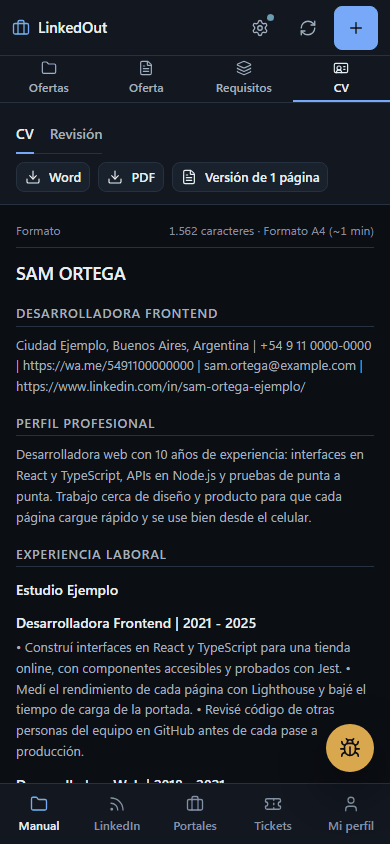
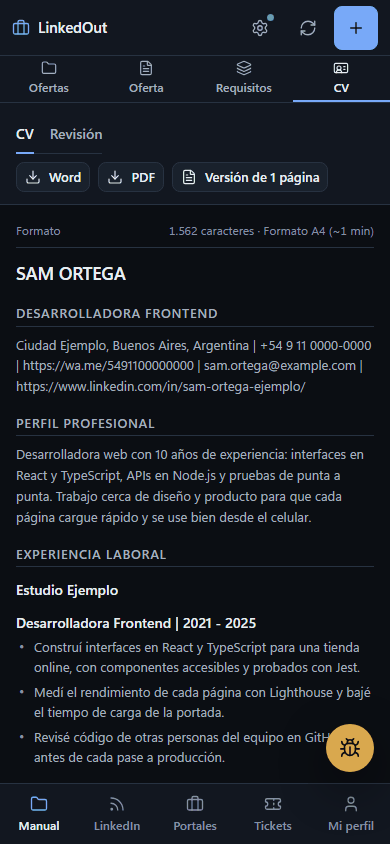
docs(readme): capturas regeneradas con los nombres de §8 y la vista previa del CV arreglada; uso.md al día
- Trae fix/vista-previa-vinetas (90033c8) y fix/nombres-linkedin (3fb5087).
- docs/capturas: las 14 regeneradas con tools/capturas.py (Búsquedas, Por analizar, Detenido, Aprobar listos · N,
  Mail de postulación, Escribir, Coincide/Falta…; el CV del editor con sus viñetas como lista). CV de ejemplo
  regenerado (mismo contenido).
- docs/uso.md: los nombres visibles de §8 (LinkedIn, Búsquedas, Por analizar, Listas, Mayor afinidad, Más
  recientes, Con mail, Procesos, Aprobar listos · N, Analizar ahora, Coincide/Transferible/Falta, Word).
- Controles: auditor --local/--ci en 0; test_enlaces_docs, test_capturas_herramienta y tests_rapidos en verde.

Changed region(s): [[0.0308, 0.7393, 0.9538, 0.9242]]

diff --git a/docs/uso.md b/docs/uso.md
@@ -4,7 +4,7 @@
 
 Sistema local de postulación asistida, análisis de ofertas laborales, adaptación personalizada de currículum vitae (formato Google XYZ) y redacción de mensajes de contacto para reclutadores, que usa el CLI de Antigravity (AGY) como motor de IA (sin claves comerciales externas ni servidores pesados).
 
-Cuenta con un panel web responsivo para escritorio y celular, motor único de procesamiento en segundo plano, exportación ejecutiva a DOCX y PDF, túnel seguro para operar desde el celular y auditoría de calidad con detección de patrones de redacción artificial.
+Cuenta con un panel web responsivo para escritorio y celular, motor único de procesamiento en segundo plano, exportación ejecutiva a Word y PDF, túnel seguro para operar desde el celular y auditoría de calidad con detección de patrones de redacción artificial.
 
 ---
 
@@ -17,9 +17,9 @@ El panel cuenta con un selector en la barra superior para alternar entre dos vis
    - Corre el mismo motor que el Radar (análisis → CV → mensaje → «Lista para enviar»).
    - En las ofertas manuales **siempre genera el CV** (sin umbral de afinidad).
    - Funciona incluso con el Radar detenido.
-   - **Historial anterior:** sección colapsable al pie de la lista de solo lectura con las postulaciones viejas, permitiendo consultar y descargar sus archivos DOCX y PDF.
+   - **Historial anterior:** sección colapsable al pie de la lista de solo lectura con las postulaciones viejas, permitiendo consultar y descargar sus archivos Word y PDF.
 
-2. **Radar LinkedIn**:
+2. **LinkedIn**:
    - Lee publicaciones de empleo desde tu feed de inicio y mediante búsquedas globales en LinkedIn en segundo plano, usando Microsoft Edge con tu perfil ya abierto.
    - Clasifica los avisos, descarta lo que no corresponda a búsquedas laborales o no aplique a Argentina y analiza requisitos y afinidad.
    - Genera el CV de forma automática cuando la afinidad supera el umbral configurado (o a demanda).
@@ -30,11 +30,11 @@ El Radar y las ofertas manuales por enlace conservan hasta cuatro imágenes de c
 
 La lectura local usa `rapidocr` y `onnxruntime` (incluidos en `requirements.txt`), con reconocimiento en español y descarga automática de modelos la primera vez. Cada imagen distinta debe alcanzar 40 caracteres alfanuméricos; no se suman entre imágenes ni cuentan espacios o puntuación. Si alguna falla o no alcanza ese umbral, se intenta un único respaldo de Antigravity con `effort='low'` por lectura del post, limitado a 45 segundos. Cada descarga tiene un límite de 10 segundos y 5 MiB por imagen (hasta 20 MiB por post); solo se aceptan imágenes HTTPS de contenido de `media.licdn.com`.
 
-La lectura puede fallar o transcribir con errores: revisá el aviso antes de usarlo. Si falla, el procesamiento continúa con el texto original y no repite la lectura en reintentos automáticos de esa sesión. El botón **Analizar** habilita otro intento; una transcripción ya guardada se reutiliza. No se reanalizan masivamente los avisos anteriores.
+La lectura puede fallar o transcribir con errores: revisá el aviso antes de usarlo. Si falla, el procesamiento continúa con el texto original y no repite la lectura en reintentos automáticos de esa sesión. El botón **Analizar ahora** habilita otro intento; una transcripción ya guardada se reutiliza. No se reanalizan masivamente los avisos anteriores.
 
-### Dos paneles: Feed general | Mi feed
+### Dos listas: Búsquedas | Mi feed
 
-En la vista **Radar LinkedIn**, la columna de ofertas se parte en dos paneles lado a lado: **Feed general** (izquierda, las búsquedas globales) y **Mi feed** (derecha, tu feed de inicio). Mismo Edge, misma sesión y mismo Iniciar/Detener.
+En la vista **LinkedIn**, la lista de ofertas tiene dos pestañas: **Búsquedas** (las búsquedas globales) y **Mi feed** (tu feed de inicio). Mismo Edge, misma sesión y mismo Iniciar/Detener.
 
 **Canales de postulación.** La clasificación detecta cómo hay que postularse: `email`, `link`, `WhatsApp`, mensaje directo (`dm`) u `otro`, y el destino (URL, número o perfil del autor). Al generar el CV se arma también un mensaje adaptado al canal (sin asunto en los que no son email).
 
@@ -45,11 +45,11 @@ En la vista **Radar LinkedIn**, la columna de ofertas se parte en dos paneles la
 
 Te postulás vos por ese canal y después tocás el botón **«Ya me postulé»** (el primer toque pide confirmación en el mismo botón): la oferta pasa a **Postulada** como postulación manual. **«Ya me postulé»** también aparece en una oferta por email **sin destinatario**, y se puede usar desde **Analizada**, **Lista para enviar** o **Error**, con o sin CV generado.
 
-**Requisitos con un toque.** En el análisis de cada oferta, el estado de cada requisito es un botón: Brecha → Transferible → Match → Brecha, como en la vista Manual. Recalcula la afinidad (y si supera el umbral genera el CV) y, si la oferta ya tiene postulación generada, la actualiza. Lo que marcás como Match o Transferible queda **aprendido** (`data/candidato/aprendizajes_candidato.json`): el Estratega lo recibe en cada análisis nuevo y los requisitos con el mismo nombre llegan ya con ese estado, y al regenerar un CV el Redactor parte de lo aprendido. Volver un requisito a Brecha lo olvida.
+**Requisitos con un toque.** En el análisis de cada oferta, el estado de cada requisito es un botón: Falta → Transferible → Coincide → Falta, como en la vista Manual. Recalcula la afinidad (y si supera el umbral genera el CV) y, si la oferta ya tiene postulación generada, la actualiza. Lo que marcás como Coincide o Transferible queda **aprendido** (`data/candidato/aprendizajes_candidato.json`): el Estratega lo recibe en cada análisis nuevo y los requisitos con el mismo nombre llegan ya con ese estado, y al regenerar un CV el Redactor parte de lo aprendido. Volver un requisito a Falta lo olvida.
 
 **Firma del email:** el teléfono va como link `https://wa.me/<número>`.
 
-**Chips de la lista:** el filtro por defecto es **Relevantes** (las ofertas, analizadas o por analizar, sin las descartadas). **Pendientes** muestra lo capturado que todavía no se clasificó; **Analizadas**, las que ya tienen análisis. Si un panel queda vacío en Relevantes pero hay pendientes, te avisa cuántos son.
+**Chips de la lista:** el filtro por defecto es **Relevantes** (las ofertas, analizadas o por analizar, sin las descartadas). **Por analizar** muestra lo capturado que todavía no se clasificó; **Analizadas**, las que ya tienen análisis. Si un panel queda vacío en Relevantes pero hay ofertas por analizar, te avisa cuántas son.
 
 **Contadores:** **Postuladas** (manuales, por link/WhatsApp/DM/otro) va aparte de **Enviadas** (los envíos de Gmail). Solo los envíos por Gmail cuentan para el tope diario de envíos; marcar una oferta como postulada no.
 
@@ -64,9 +64,9 @@ Pendiente → Analizada → Generando → Lista para enviar → Enviada / Postul
 ```
 
 - **Pendiente:** aviso ingresado o capturado, listo para analizar.
-- **Analizada:** el Estratega evaluó los dolores de la empresa, calculó la afinidad y clasificó las competencias (match directo, transferibles y brechas). Podés ajustar cualquier requisito con un clic para recalcular la afinidad y guardar aprendizajes.
+- **Analizada:** el Estratega evaluó los dolores de la empresa, calculó la afinidad y clasificó los requisitos (coinciden, transferibles y faltan). Podés ajustar cualquier requisito con un clic para recalcular la afinidad y guardar aprendizajes.
 - **Generando:** el Redactor y el Auditor elaboran el CV adaptado y el mensaje de contacto.
-- **Lista para enviar:** CV y mensaje listos. Podés revisarlos, editarlos y descargar DOCX o PDF.
+- **Lista para enviar:** CV y mensaje listos. Podés revisarlos, editarlos y descargar Word o PDF.
 - **Enviada / Postulada:**
   - Si el canal es **email**, al tocar **Aprobar y enviar** sale por Gmail con el CV adjunto.
   - Si el canal es **enlace**, **WhatsApp** o **mensaje directo**, te postulás por tu cuenta en el sitio externo y tocás el botón **«Ya me postulé»** (pide confirmación rápida) para registrarlo sin enviar correos.
@@ -79,10 +79,10 @@ Pendiente → Analizada → Generando → Lista para enviar → Enviada / Postul
 
 Para ordenar y encontrar ofertas rápidamente en la lista:
 
-- **Filtro de canal:** selector **«Todos · Con email · Solo enlace»** para separar las que se postulan por correo de las que requieren enlace externo o mensaje directo.
-- **Filtros de estado:** Relevantes, Pendientes, Analizadas, Listas para enviar, Generando, Enviadas, Descartadas, Con error y Todas.
+- **Filtro de canal:** selector **«Todos · Con mail · Solo enlace»** para separar las que se postulan por correo de las que requieren enlace externo o mensaje directo.
+- **Filtros de estado:** Relevantes, Por analizar, Analizadas, Listas, Generando, Enviadas, Descartadas, Con error y Todas.
 - **Filtro de ubicación (en Radar):** Todas · Argentina · Exterior compatible.
-- **Orden:** podés ordenar la lista por **Mayor match** o por **Recientes**.
+- **Orden:** podés ordenar la lista por **Mayor afinidad** o por **Más recientes**.
 
 ---
 
@@ -92,14 +92,14 @@ Proceso en segundo plano que toma las ofertas analizadas que todavía no tienen 
 
 - Procesa primero las ofertas con **mejor afinidad**, con prioridad baja para no demorar las solicitudes que hagas a mano.
 - Funciona también con el Radar detenido.
-- Se puede **pausar y reanudar** en cualquier momento desde el Historial de procesos, donde indica el contador exacto (**«Quedan N»**).
+- Se puede **pausar y reanudar** en cualquier momento desde **Procesos**, donde indica el contador exacto (**«Quedan N»**).
 - Pausarlo deja terminar el CV que esté en curso y no toma el siguiente hasta que lo reanudes.
 
 ---
 
 ## 📊 Historial de Procesos y Telemetría
 
-Haciendo clic en la **franja de la cola** (la barra superior que muestra el estado de trabajo actual) se abre el panel lateral del **Historial de procesos**:
+Haciendo clic en la **franja de la cola** (la barra superior que muestra el estado de trabajo actual) se abre el panel lateral **Procesos**:
 
 - **Estado general:** muestra los trabajos en curso, en cola, el estado del backlog y los trabajos terminados.
 - **Progreso por paso:** avance detallado de cada fase (Estratega, Redactor, Auditor, mensaje) con tiempo y porcentaje.
@@ -147,9 +147,9 @@ Radar» en Mi perfil); el código no tiene ninguno y, sin ese archivo completo, 
 
 ## ✉ Aprobación y Envío
 
-- Para cada post o propuesta en **Lista para enviar** podés ver el aviso original, editar destinatario (elegís uno de los emails detectados o escribís otro; si la clasificación no pudo decidir cuál corresponde, el campo queda vacío y aprobar se bloquea hasta que elijas uno), asunto y cuerpo, abrir el PDF o DOCX adjunto y luego **Aprobar y enviar**, **Descartar** o **Regenerar email** (opcionalmente también el CV).
-- **Aprobar todos los listos (N)** encola exactamente los N posts que contaste al confirmar, y solo si no cambiaron desde entonces: un post que llegó a **Lista para enviar** después, o que se regeneró, editó o descartó entre el conteo y la confirmación, queda sin aprobar y se informa como "cambió". También omite (y te informa) los que tienen destinatario duplicado, o destinatario, asunto o cuerpo faltante o inválido.
-- **Protección de duplicados:** si ya enviaste (o tenés aprobado/en curso) un email a ese destinatario en los últimos **30 días**, la aprobación se rechaza salvo que confirmes explícitamente el duplicado. "Aprobar todos" omite esos casos y te informa cuáles.
+- Para cada post o propuesta en **Lista para enviar** podés ver el aviso original, editar destinatario (elegís uno de los emails detectados o escribís otro; si la clasificación no pudo decidir cuál corresponde, el campo queda vacío y aprobar se bloquea hasta que elijas uno), asunto y texto del mail, abrir el PDF o el Word adjunto y luego **Aprobar y enviar**, **Descartar** o **Regenerar email** (opcionalmente también el CV).
+- **Aprobar listos · N** encola exactamente los N posts que contaste al confirmar, y solo si no cambiaron desde entonces: un post que llegó a **Lista para enviar** después, o que se regeneró, editó o descartó entre el conteo y la confirmación, queda sin aprobar y se informa como "cambió". También omite (y te informa) los que tienen destinatario duplicado, o destinatario, asunto o cuerpo faltante o inválido.
+- **Protección de duplicados:** si ya enviaste (o tenés aprobado/en curso) un email a ese destinatario en los últimos **30 días**, la aprobación se rechaza salvo que confirmes explícitamente el duplicado. «Aprobar listos» omite esos casos y te informa cuáles.
 - **Aprobar con el Radar detenido:** podés aprobar envíos con el Radar detenido e igual envía lo que quedó en cola.
 
 ---
@@ -190,7 +190,7 @@ Abrí `http://localhost:1111`. Con `--host 0.0.0.0` el celular entra por la red 
 con `--host 127.0.0.1` el portal queda solo para la PC.
 
 **5. Primer login en LinkedIn** (una sola vez):
-1. Levantá el portal (paso 4), abrí la vista **Radar LinkedIn** y presioná **Iniciar**.
+1. Levantá el portal (paso 4), abrí la vista **LinkedIn** y presioná **Iniciar**.
 2. El estado pasa a `ESPERANDO_LOGIN`. Presioná **Mostrar navegador** e **iniciá sesión en LinkedIn a mano** en la ventana de Edge.
 3. La sesión queda guardada en `data/linkedin_profile/` (perfil aislado, no versionado). El Radar revisa cada 30 s y continúa solo cuando detecta que ya iniciaste sesión.
 
@@ -208,8 +208,8 @@ El login, los CAPTCHAs y las verificaciones de seguridad **nunca se automatizan*
 | **Error temporal de SMTP** | Solo fallos en los que el mensaje seguro no salió (no se pudo conectar o iniciar sesión, o Gmail respondió un 4xx): 3 reintentos con espera creciente (30 s, 2 min, 5 min); después el post pasa a `ERROR` sin aprobación. |
 | **Envío incierto** | Si la conexión se corta *mientras* se transmite el mensaje no se sabe si Gmail lo aceptó: el post pasa a `ERROR` ("Envío incierto: verificá en Gmail (Enviados) antes de reintentar") y **nunca se reintenta solo**. Al presionar **Reintentar** la UI te pide confirmar; después hay que volver a aprobar. Si Gmail ya aceptó el mensaje y falla solo el cierre de la conexión, cuenta como `ENVIADO`. |
 | **Caída durante un envío** | Al reiniciar, un post que estaba `ENVIANDO` pasa a `ERROR` ("envío interrumpido, verificar en Gmail antes de reintentar") sin aprobación: revisá "Enviados" en Gmail antes de reintentar para no duplicar (la UI pide confirmación). |
-| **Fallo de la clasificación** | El lote se parte en mitades; un post que falla solo se reintenta y tras 3 fallos pasa a `ERROR` (**Analizar** lo vuelve a poner primero). |
-| **Fallo del análisis** | Se reintenta hasta 3 veces; después `ERROR` con el motivo (**Analizar** lo reintenta). |
+| **Fallo de la clasificación** | El lote se parte en mitades; un post que falla solo se reintenta y tras 3 fallos pasa a `ERROR` (**Analizar ahora** lo vuelve a poner primero). |
+| **Fallo del análisis** | Se reintenta hasta 3 veces; después `ERROR` con el motivo (**Analizar ahora** lo reintenta). |
 | **Fallo del pipeline o del composer** | El post pasa a `ERROR` con el mensaje y el Radar sigue con el resto. |
 | **Plazo de 45 min del CV superado** | Cada generación tiene un límite de 45 minutos de trabajo activo (la espera de cuota de Antigravity no cuenta). Si se supera, pasa a `ERROR` con un reintento automático antes de fallar definitivamente. |
 
@@ -233,7 +233,7 @@ Automatizar la lectura de LinkedIn va contra sus términos y condiciones de uso 
 ## ✅ Smoke Test Manual
 
 1. Creá `dev.env` desde `.env.example` y completá `GMAIL_ADDRESS` y `GMAIL_APP_PASSWORD` vos mismo.
-2. Levantá el portal (paso 4 de la instalación) → vista **Radar LinkedIn** → **Iniciar**. El estado pasa a `ESPERANDO_LOGIN` → **Mostrar navegador** → iniciá sesión en LinkedIn a mano.
+2. Levantá el portal (paso 4 de la instalación) → vista **LinkedIn** → **Iniciar**. El estado pasa a `ESPERANDO_LOGIN` → **Mostrar navegador** → iniciá sesión en LinkedIn a mano.
 3. Esperá el primer ciclo: tienen que aparecer publicaciones en la lista. Revisá que autor, texto y emails detectados sean correctos.
 4. Si la lista queda vacía o mal parseada, puede que haya que calibrar los selectores del parser (`core/linkedin_parser.py`) contra una captura real: dejá que el Radar genere `data/radar_debug/<timestamp>/page.html` (se recortan 3–4 publicaciones reales, anonimizadas, para reemplazar `tests/fixtures/linkedin_search_posts.html`, se ajustan los selectores y se corre `python -m pytest tests/test_linkedin_parser.py -v` hasta que pase).
 5. Elegí una oferta de prueba y **editá el destinatario poniendo tu propia casilla antes de aprobar**. Aprobá y verificá en Gmail ("Enviados" y bandeja de entrada) el asunto, el cuerpo y el archivo adjunto.
